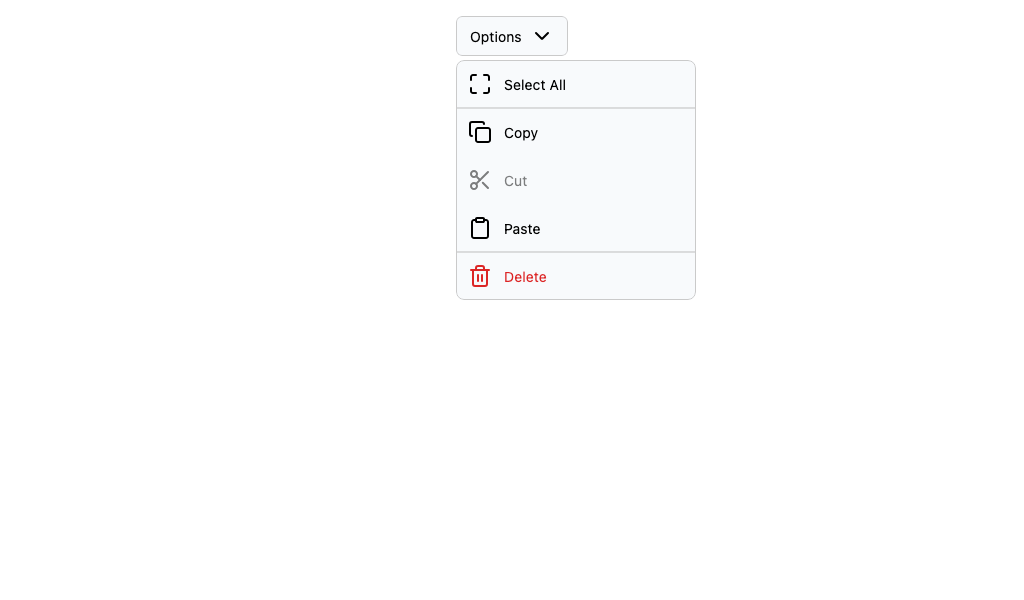
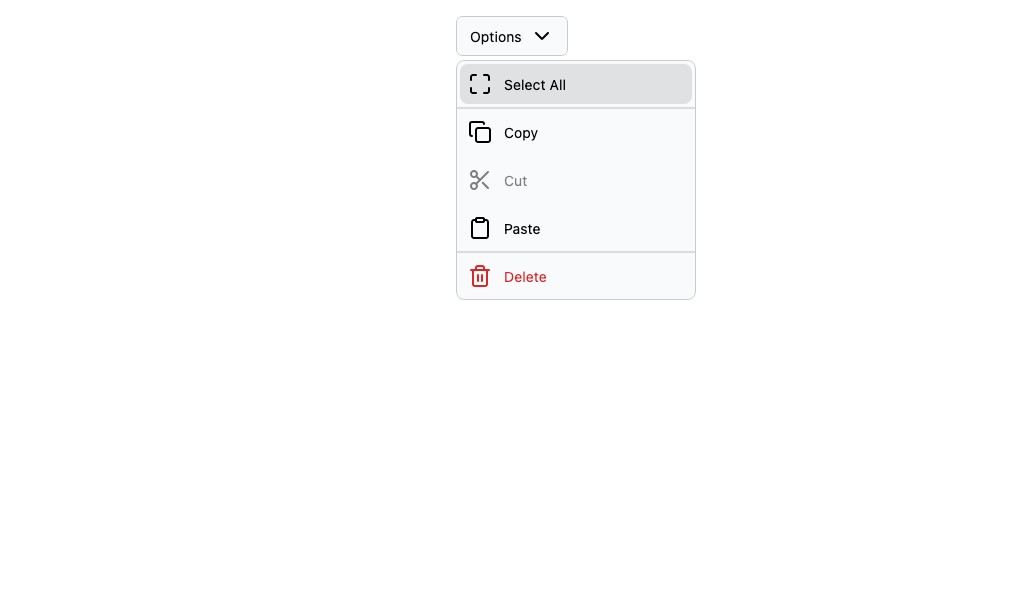
Provide ripple indication in demos

Changed region(s): [[0.4375, 0.09, 0.6875, 0.18]]

diff --git a/demo/src/commonMain/kotlin/Demo.kt b/demo/src/commonMain/kotlin/Demo.kt
@@ -23,6 +23,7 @@ package com.composeunstyled.demo
 
 import androidx.compose.animation.EnterTransition
 import androidx.compose.animation.ExitTransition
+import androidx.compose.foundation.LocalIndication
 import androidx.compose.foundation.background
 import androidx.compose.foundation.layout.Arrangement
 import androidx.compose.foundation.layout.Box
@@ -47,6 +48,7 @@ import androidx.compose.foundation.shape.RoundedCornerShape
 import androidx.compose.foundation.text.BasicText
 import androidx.compose.foundation.verticalScroll
 import androidx.compose.runtime.Composable
+import androidx.compose.runtime.CompositionLocalProvider
 import androidx.compose.ui.Alignment
 import androidx.compose.ui.Modifier
 import androidx.compose.ui.draw.clip
@@ -57,6 +59,7 @@ import androidx.compose.ui.unit.dp
 import androidx.navigation.compose.NavHost
 import androidx.navigation.compose.composable
 import androidx.navigation.compose.rememberNavController
+import com.composables.compose.ripple.rememberRippleIndication
 import com.composables.icons.lucide.ArrowLeft
 import com.composables.icons.lucide.Lucide
 import com.composeunstyled.CrossAxisAlignment
@@ -69,8 +72,10 @@ import com.composeunstyled.currentWindowContainerSize
 
 @Composable
 fun Demo(startDestination: String = "home") {
-  Box(Modifier.fillMaxSize().background(Color(0xFFFAFAFA))) {
-    DemoSelection(startDestination)
+  CompositionLocalProvider(LocalIndication provides rememberRippleIndication()) {
+    Box(Modifier.fillMaxSize().background(Color(0xFFFAFAFA))) {
+      DemoSelection(startDestination)
+    }
   }
 }
 
@@ -299,6 +304,7 @@ private fun AppBar(onUpClick: () -> Unit, title: String) {
       onClick = onUpClick,
       modifier = Modifier
         .clip(CircleShape),
+      indication = LocalIndication.current,
     ) {
       Box(Modifier.padding(12.dp)) {
         UnstyledIcon(Lucide.ArrowLeft, contentDescription = "Go back")
@@ -320,6 +326,7 @@ private fun DemoListButton(
     modifier = modifier
       .sizeIn(minWidth = 40.dp, minHeight = 48.dp)
       .clip(RoundedCornerShape(8.dp)),
+    indication = LocalIndication.current,
   ) {
     Box(
       modifier = Modifier

diff --git a/demo/src/commonMain/kotlin/RadioGroupDemo.kt b/demo/src/commonMain/kotlin/RadioGroupDemo.kt
@@ -21,6 +21,7 @@
  */
 package com.composeunstyled.demo
 
+import androidx.compose.foundation.LocalIndication
 import androidx.compose.foundation.background
 import androidx.compose.foundation.border
 import androidx.compose.foundation.layout.Arrangement
@@ -80,6 +81,7 @@ fun RadioGroupDemo() {
             modifier = Modifier
               .fillMaxWidth()
               .clip(itemShape),
+            indication = LocalIndication.current,
           ) {
             Row(
               modifier = Modifier.fillMaxWidth().padding(vertical = 12.dp, horizontal = 16.dp),
@@ -95,7 +97,9 @@ fun RadioGroupDemo() {
                   .border(1.dp, Color(0xFFCACACA), CircleShape),
                 contentAlignment = Alignment.Center,
               ) {
-                SelectedIndicator {
+                SelectedIndicator(
+                  indication = LocalIndication.current,
+                ) {
                   Box(
                     Modifier
                       .size(8.dp)

diff --git a/demo/src/commonMain/kotlin/ThemeDemo.kt b/demo/src/commonMain/kotlin/ThemeDemo.kt
@@ -24,6 +24,7 @@ package com.composeunstyled.demo
 import androidx.compose.animation.animateColorAsState
 import androidx.compose.animation.core.animateDpAsState
 import androidx.compose.foundation.Image
+import androidx.compose.foundation.LocalIndication
 import androidx.compose.foundation.background
 import androidx.compose.foundation.horizontalScroll
 import androidx.compose.foundation.interaction.MutableInteractionSource
@@ -672,6 +673,7 @@ fun MusicPlayerCard(modifier: Modifier = Modifier) {
           UnstyledButton(
             onClick = { },
             modifier = Modifier.clip(Theme[shapes][buttonShape]),
+            indication = LocalIndication.current,
           ) {
             Box(Modifier.padding(12.dp)) {
               UnstyledIcon(
@@ -687,6 +689,7 @@ fun MusicPlayerCard(modifier: Modifier = Modifier) {
             modifier = Modifier
               .clip(Theme[shapes][buttonShape])
               .background(Theme[colors][primary]),
+            indication = LocalIndication.current,
           ) {
             Box(Modifier.padding(16.dp)) {
               UnstyledIcon(
@@ -700,6 +703,7 @@ fun MusicPlayerCard(modifier: Modifier = Modifier) {
           UnstyledButton(
             onClick = { },
             modifier = Modifier.clip(Theme[shapes][buttonShape]),
+            indication = LocalIndication.current,
           ) {
             Box(Modifier.padding(12.dp)) {
               UnstyledIcon(
@@ -753,5 +757,6 @@ private fun SimpleThemeCard(
       .background(themeColor)
       .outline(outlineThickness, outlineColor, CircleShape, offset),
     interactionSource = interactionSource,
+    indication = LocalIndication.current,
   ) { }
 }

diff --git a/demo/src/commonMain/kotlin/ModalDemo.kt b/demo/src/commonMain/kotlin/ModalDemo.kt
@@ -29,6 +29,7 @@ import androidx.compose.animation.fadeOut
 import androidx.compose.animation.scaleIn
 import androidx.compose.animation.scaleOut
 import androidx.compose.foundation.Image
+import androidx.compose.foundation.LocalIndication
 import androidx.compose.foundation.background
 import androidx.compose.foundation.border
 import androidx.compose.foundation.focusable
@@ -182,6 +183,7 @@ fun ModalDemo() {
               .clip(RoundedCornerShape(8.dp))
               .background(Color(0xFFF8FAFC))
               .border(1.dp, Color(0xFFCACACA), RoundedCornerShape(8.dp)),
+            indication = LocalIndication.current,
           ) {
             Image(
               painter = rememberUriPainter(item.url),
@@ -293,6 +295,7 @@ fun ModalDemo() {
                   .background(Color(0xFFF8FAFC))
                   .border(1.dp, Color(0xFFCACACA), CircleShape)
                   .alpha(previousButtonAlpha),
+                indication = LocalIndication.current,
               ) {
                 Box(Modifier.padding(12.dp)) {
                   UnstyledIcon(
@@ -317,6 +320,7 @@ fun ModalDemo() {
                   .background(Color(0xFFF8FAFC))
                   .border(1.dp, Color(0xFFCACACA), CircleShape)
                   .alpha(nextButtonAlpha),
+                indication = LocalIndication.current,
               ) {
                 Box(Modifier.padding(12.dp)) {
                   UnstyledIcon(

diff --git a/demo/src/commonMain/kotlin/CheckboxDemo.kt b/demo/src/commonMain/kotlin/CheckboxDemo.kt
@@ -21,6 +21,7 @@
  */
 package com.composeunstyled.demo
 
+import androidx.compose.foundation.LocalIndication
 import androidx.compose.foundation.background
 import androidx.compose.foundation.border
 import androidx.compose.foundation.layout.size
@@ -53,12 +54,14 @@ fun CheckboxDemo() {
     onCheckedChange = { checked = it },
     modifier = Modifier.clip(checkboxShape),
     accessibilityLabel = "Enable notifications",
+    indication = LocalIndication.current,
   ) {
     CheckedIndicator(
       modifier = Modifier
         .size(24.dp)
         .background(Color(0xFFF8FAFC), checkboxShape)
         .border(1.dp, Color(0xFFCACACA), checkboxShape),
+      indication = LocalIndication.current,
     ) {
       UnstyledIcon(Check)
     }

diff --git a/demo/src/commonMain/kotlin/DropdownMenuDemo.kt b/demo/src/commonMain/kotlin/DropdownMenuDemo.kt
@@ -27,6 +27,7 @@ import androidx.compose.animation.fadeIn
 import androidx.compose.animation.fadeOut
 import androidx.compose.animation.scaleIn
 import androidx.compose.animation.scaleOut
+import androidx.compose.foundation.LocalIndication
 import androidx.compose.foundation.background
 import androidx.compose.foundation.border
 import androidx.compose.foundation.layout.Arrangement
@@ -121,6 +122,7 @@ fun DropdownMenuDemo() {
                 .sizeIn(minWidth = 40.dp, minHeight = 40.dp)
                 .clip(RoundedCornerShape(8.dp))
                 .fillMaxWidth(),
+              indication = LocalIndication.current,
             ) {
               Row(
                 modifier = Modifier
@@ -161,6 +163,7 @@ fun DropdownMenuDemo() {
           .clip(RoundedCornerShape(6.dp))
           .background(Color(0xFFF8FAFC))
           .border(1.dp, Color(0xFFCACACA), RoundedCornerShape(6.dp)),
+        indication = LocalIndication.current,
       ) {
         Row(
           modifier = Modifier.padding(horizontal = 14.dp, vertical = 8.dp),

diff --git a/demo/src/commonMain/kotlin/TabGroupDemo.kt b/demo/src/commonMain/kotlin/TabGroupDemo.kt
@@ -21,6 +21,7 @@
  */
 package com.composeunstyled.demo
 
+import androidx.compose.foundation.LocalIndication
 import androidx.compose.foundation.background
 import androidx.compose.foundation.border
 import androidx.compose.foundation.layout.Arrangement
@@ -132,6 +133,7 @@ fun TabGroupDemo() {
               Tab(
                 key = key,
                 modifier = Modifier.weight(1f).fillMaxHeight(),
+                indication = LocalIndication.current,
               ) {
                 Box(modifier = Modifier.fillMaxSize(), contentAlignment = Alignment.Center) {
                   BasicText(
@@ -180,6 +182,7 @@ fun TabGroupDemo() {
                 UnstyledButton(
                   onClick = { /* TODO */ },
                   modifier = Modifier.clip(RoundedCornerShape(8.dp)),
+                  indication = LocalIndication.current,
                 ) {
                   Column(Modifier.padding(12.dp)) {
                     BasicText(item.title, style = TextStyle(fontWeight = FontWeight.Medium))

diff --git a/demo/src/commonMain/kotlin/BottomSheetDemo.kt b/demo/src/commonMain/kotlin/BottomSheetDemo.kt
@@ -21,6 +21,7 @@
  */
 package com.composeunstyled.demo
 
+import androidx.compose.foundation.LocalIndication
 import androidx.compose.foundation.background
 import androidx.compose.foundation.border
 import androidx.compose.foundation.layout.Box
@@ -73,6 +74,7 @@ fun BottomSheetDemo() {
               .padding(top = 22.dp)
               .background(Color(0xFFCACACA), RoundedCornerShape(100))
               .size(32.dp, 4.dp),
+            indication = LocalIndication.current,
           )
         }
       }

diff --git a/demo/src/commonMain/kotlin/ButtonDemo.kt b/demo/src/commonMain/kotlin/ButtonDemo.kt
@@ -21,6 +21,7 @@
  */
 package com.composeunstyled.demo
 
+import androidx.compose.foundation.LocalIndication
 import androidx.compose.foundation.background
 import androidx.compose.foundation.border
 import androidx.compose.foundation.layout.PaddingValues
@@ -44,6 +45,7 @@ fun ButtonDemo() {
       .background(Color(0xFFF8FAFC))
       .border(1.dp, Color(0xFFCACACA), RoundedCornerShape(10.dp)),
     contentPadding = PaddingValues(horizontal = 10.dp),
+    indication = LocalIndication.current,
   ) {
     BasicText("Button")
   }

diff --git a/demo/src/commonMain/kotlin/DialogDemo.kt b/demo/src/commonMain/kotlin/DialogDemo.kt
@@ -26,6 +26,7 @@ import androidx.compose.animation.fadeIn
 import androidx.compose.animation.fadeOut
 import androidx.compose.animation.scaleIn
 import androidx.compose.animation.scaleOut
+import androidx.compose.foundation.LocalIndication
 import androidx.compose.foundation.background
 import androidx.compose.foundation.border
 import androidx.compose.foundation.layout.Box
@@ -121,6 +122,7 @@ fun DialogDemo() {
               .padding(12.dp)
               .align(Alignment.End)
               .clip(RoundedCornerShape(6.dp)),
+            indication = LocalIndication.current,
           ) {
             BasicText(
               "Update",

diff --git a/demo/src/commonMain/kotlin/DisclosureDemo.kt b/demo/src/commonMain/kotlin/DisclosureDemo.kt
@@ -28,6 +28,7 @@ import androidx.compose.animation.core.spring
 import androidx.compose.animation.core.tween
 import androidx.compose.animation.expandVertically
 import androidx.compose.animation.shrinkVertically
+import androidx.compose.foundation.LocalIndication
 import androidx.compose.foundation.background
 import androidx.compose.foundation.border
 import androidx.compose.foundation.layout.Column
@@ -74,6 +75,7 @@ fun DisclosureDemo() {
     ) {
       DisclosureButton(
         modifier = Modifier.fillMaxWidth(),
+        indication = LocalIndication.current,
       ) {
         Row(
           modifier = Modifier.fillMaxWidth().padding(vertical = 12.dp, horizontal = 16.dp),

diff --git a/demo/src/commonMain/kotlin/ModalBottomSheetDemo.kt b/demo/src/commonMain/kotlin/ModalBottomSheetDemo.kt
@@ -23,6 +23,7 @@ package com.composeunstyled.demo
 
 import androidx.compose.animation.fadeIn
 import androidx.compose.animation.fadeOut
+import androidx.compose.foundation.LocalIndication
 import androidx.compose.foundation.background
 import androidx.compose.foundation.border
 import androidx.compose.foundation.layout.Box
@@ -105,6 +106,7 @@ fun ModalBottomSheetDemo() {
               .padding(top = 22.dp)
               .background(Color(0xFFCACACA), RoundedCornerShape(100))
               .size(32.dp, 4.dp),
+            indication = LocalIndication.current,
           )
         }
       }